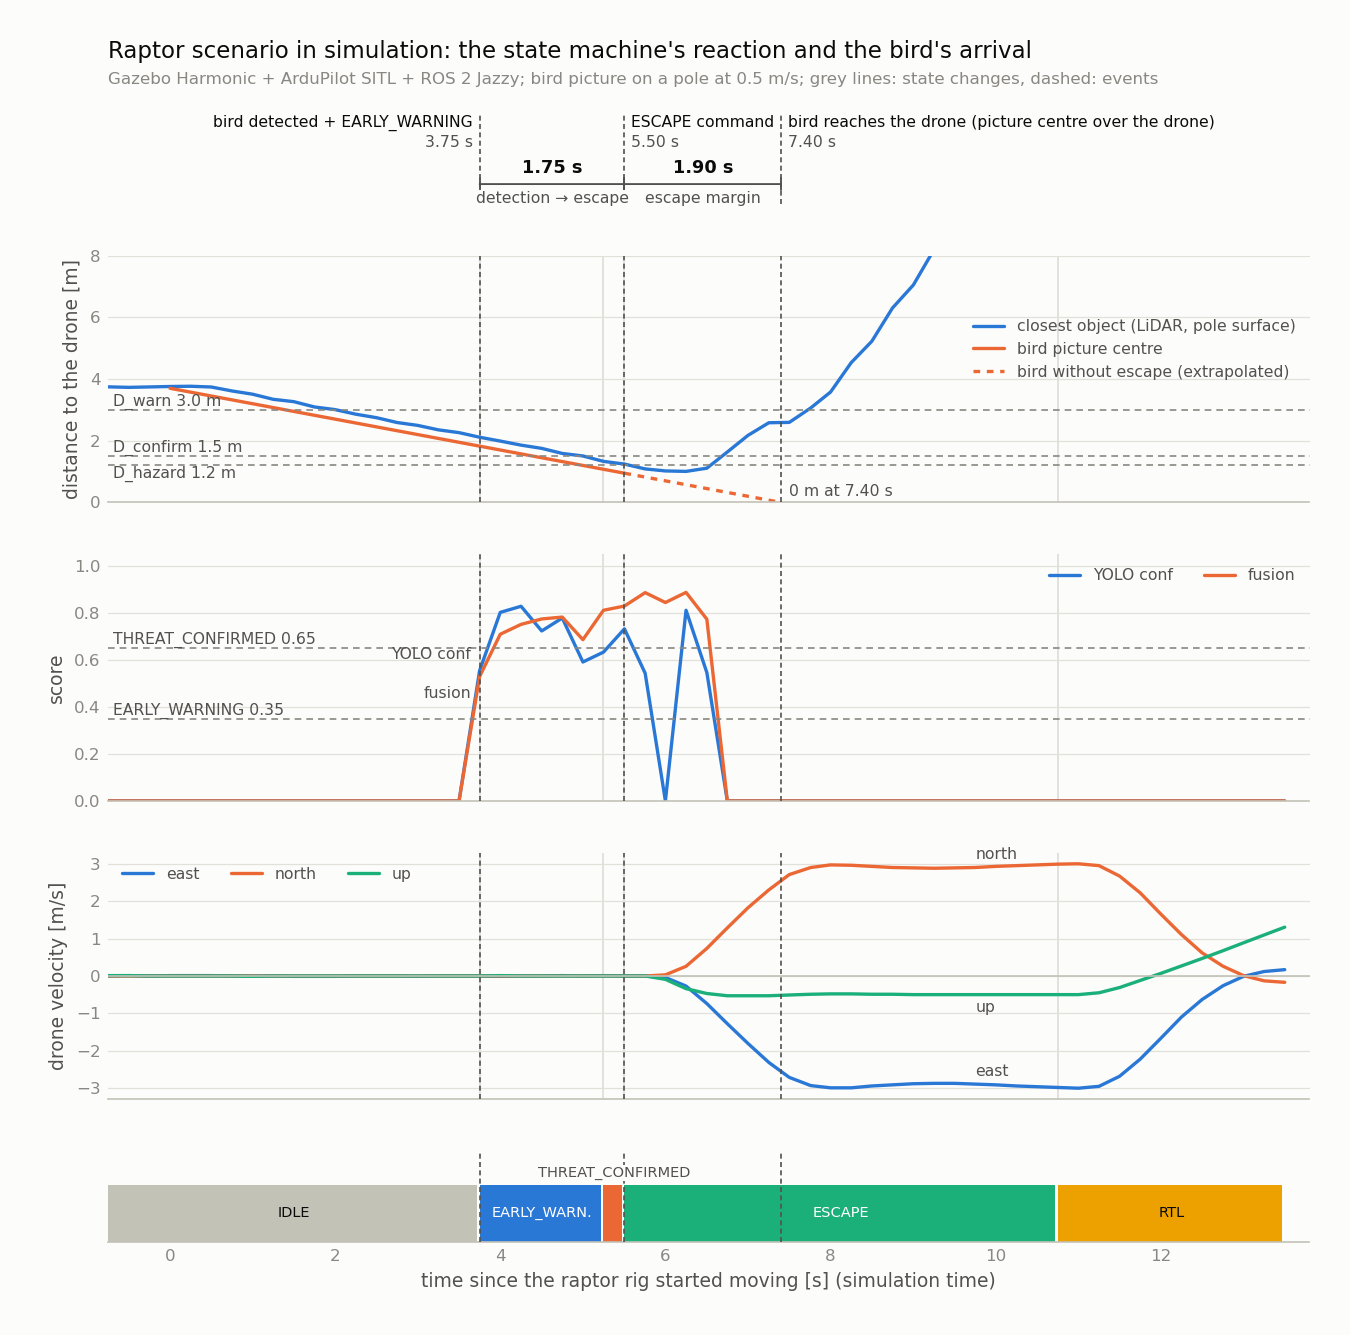
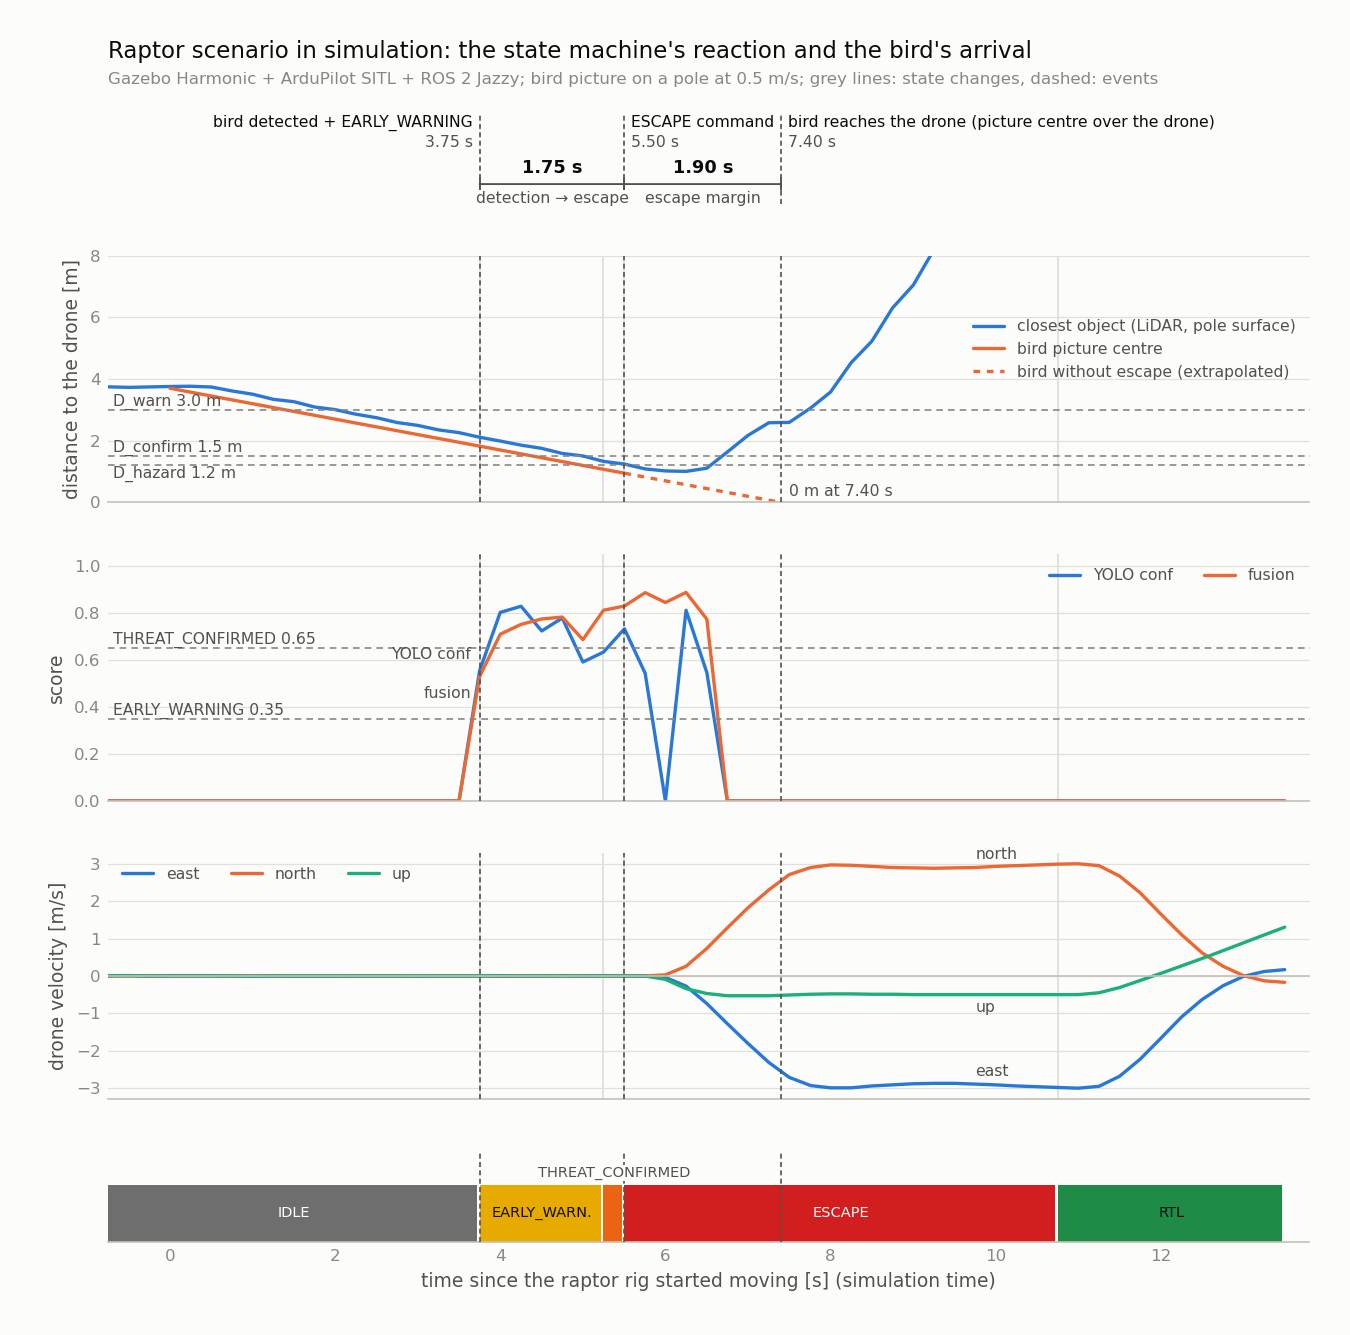
Use the demo GIF state colours and tidy docs and metadata
- plot_scenario.py: state bands in the demo GIF colours (IDLE grey,
  EARLY_WARNING amber, THREAT_CONFIRMED orange, ESCAPE red, RTL green),
  text colour chosen by contrast; chart regenerated.
- README: the LiDAR pole distance follows the modelled rig motion
  within 1 cm against the scan times in the bag; python3-pip in the
  apt install line.
- raptor_interfaces: version 0.1.0 like the other packages.
- Remove internal development-step references from raptor_params.yaml
  and fsm_core.py (the latter now points to the README findings).

Changed region(s): [[0.0622, 0.8906, 0.9644, 0.9521]]

diff --git a/docs/scripts/plot_scenario.py b/docs/scripts/plot_scenario.py
@@ -36,9 +36,16 @@ THEME = {
     'surface': '#fcfcfb', 'ink': '#0b0b0b', 'ink2': '#52514e', 'muted': '#898781',
     'grid': '#e1e0d9', 'axis': '#c3c2b7',
     'series': ['#2a78d6', '#eb6834', '#1baf7a', '#eda100'],
-    'on_fill': ['#ffffff', '#ffffff', '#ffffff', '#0b0b0b'], 'idle': '#c3c2b7',
 }
-RAPTOR_STATES = ['EARLY_WARNING', 'THREAT_CONFIRMED', 'ESCAPE', 'RTL']  # fixed slot order
+# State colours of the demo GIF (STATE_COLOURS in raptor_fsm/demo_recorder.py), RGB.
+STATE_COLOURS = {
+    'IDLE': (110, 110, 110),
+    'OBSTACLE_AVOID': (40, 120, 220),
+    'EARLY_WARNING': (230, 170, 0),
+    'THREAT_CONFIRMED': (235, 100, 20),
+    'ESCAPE': (210, 30, 30),
+    'RTL': (30, 140, 70),
+}
 SHORT = {'IDLE': 'IDLE', 'EARLY_WARNING': 'EARLY_WARN.', 'THREAT_CONFIRMED': 'THREAT_CONF.',
          'ESCAPE': 'ESCAPE', 'RTL': 'RTL', 'OBSTACLE_AVOID': 'OBSTACLE_AVOID'}
 EVENT_DASH = (0, (3, 2))
@@ -83,6 +90,23 @@ def segments(t, rows):
     for i in range(len(out) - 1):
         out[i][2] = out[i + 1][1]
     return out
+
+
+def luminance(rgb):
+    """WCAG relative luminance of an RGB colour (0-255 per channel)."""
+    lin = [c / 255 / 12.92 if c / 255 <= 0.04045 else ((c / 255 + 0.055) / 1.055) ** 2.4
+           for c in rgb]
+    return 0.2126 * lin[0] + 0.7152 * lin[1] + 0.0722 * lin[2]
+
+
+def state_fill(state, theme):
+    """Band colour of a state and the text colour with the higher contrast on it."""
+    rgb = STATE_COLOURS.get(state, STATE_COLOURS['IDLE'])
+    ink = tuple(int(theme['ink'][i:i + 2], 16) for i in (1, 3, 5))
+    on_white = 1.05 / (luminance(rgb) + 0.05)
+    on_ink = (luminance(rgb) + 0.05) / (luminance(ink) + 0.05)
+    text = '#ffffff' if on_white >= on_ink else theme['ink']
+    return tuple(c / 255 for c in rgb), text
 
 
 def first_index(rows, test):
@@ -275,11 +299,7 @@ def plot(path, output):
     ax.spines['bottom'].set_color(theme['axis'])
     ax.tick_params(colors=theme['muted'], labelsize=8, length=0)
     for state, x0, x1 in segs:
-        if state in RAPTOR_STATES:
-            slot = RAPTOR_STATES.index(state)
-            fill, ink = theme['series'][slot], theme['on_fill'][slot]
-        else:
-            fill, ink = theme['idle'], theme['ink']
+        fill, ink = state_fill(state, theme)
         # 2 px surface gap between neighbouring segments
         ax.broken_barh([(x0, max(x1 - x0 - 0.03, 0.01))], (0, 1), facecolors=fill)
         if x1 - x0 > 1.3:

diff --git a/raptor_fsm/raptor_fsm/fsm_core.py b/raptor_fsm/raptor_fsm/fsm_core.py
@@ -147,7 +147,7 @@ def obstacle_velocity(sector: int, distance_m: float, params: FsmParams) -> Velo
         factor = 0.5
     else:
         # Too close: stop and hold (paper). OBSTACLE_AVOID is only left when the hazard
-        # clears, so a vehicle held inside this distance stays there (see step 7 tests).
+        # clears, so a vehicle held inside this distance stays there (see Findings in the README).
         factor = 0.0
     return tuple(factor * v for v in direction)
 

diff --git a/README.md b/README.md
@@ -141,10 +141,11 @@ confidence with the range of the closest LiDAR object.
 
 *Time 0 is the first rig command. The bird picture is 2.0 m above the camera, so "reaches the
 drone" means that the picture centre passes over the drone; its position is the rig's start
-position plus its speed (0.5 m/s) times the time. The rig itself stops with the picture 0.5 m from
-the drone, so the arrival without an escape is extrapolated. Each state machine decision takes at
-most one 0.25 s tick. The state machine decided on the LiDAR distance to the pole, so it saw the
-bird about 0.25 m farther away than it was (a test-rig artefact).*
+position plus its speed (0.5 m/s) times the time. Against the scan times in the recorded bag, the
+LiDAR pole distance follows this motion within 1 cm (rms 8 mm). The rig itself stops with the
+picture 0.5 m from the drone, so the arrival without an escape is extrapolated. Each state machine
+decision takes at most one 0.25 s tick. The state machine decided on the LiDAR distance to the
+pole, so it saw the bird about 0.25 m farther away than it was (a test-rig artefact).*
 
 | Transition | Time | Values ([run data](docs/results/scenario_raptor_sim.csv)) |
 |---|---|---|
@@ -232,7 +233,7 @@ datasets), [ArduPilot](https://github.com/ArduPilot/ardupilot) Copter-4.6.3 SITL
 and `GZ_SIM_RESOURCE_PATH` set.
 
 ```bash
-sudo apt install python3-opencv python3-matplotlib
+sudo apt install python3-pip python3-opencv python3-matplotlib
 python3 -m pip install --user --break-system-packages --no-deps onnxruntime==1.31.1
 mkdir -p ~/raptor_ws/src && cd ~/raptor_ws/src
 git clone https://github.com/AycanCoskun/uav-raptor-avoidance-ros2.git
